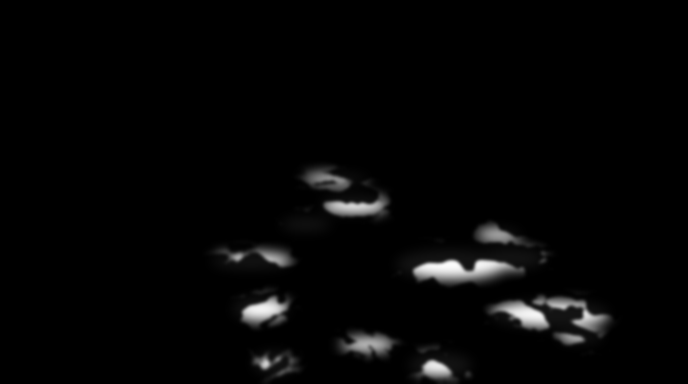
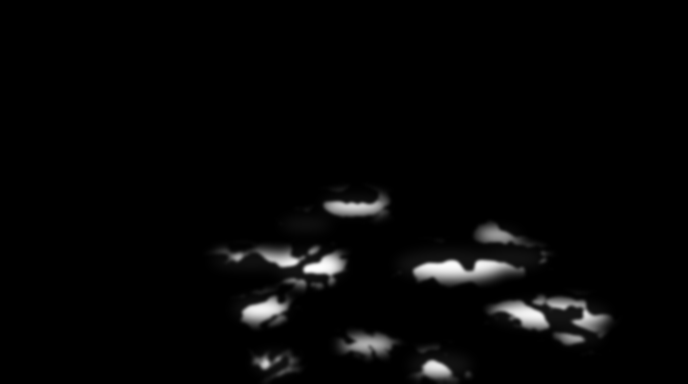
fix(menu): зони калюж за розміткою власника
Власник обвів на скріншоті дві області: мінус — прибрати краплі, плюс —
додати.

Мінус влучив рівно в зону «мокра смуга вздовж лінії окопів» (y≈0.466). Це не
вода, а пласка далека земля в димній імлі — брижі там читались як брак.
Зону прибрано.

Плюс накрив улоговину перед траншеєю, де маска не мала нічого, хоча між лівим
мокрим поділом і великою вирвою лежить суцільний гладкий розлив. Додано зону
(0.450, 0.694, 0.050, 0.042). Темний вал з дошками в центрі улоговини
лишається сухим — автооцінка «гладке й світліше за оточення» тримає його поза
маскою, і це видно на накладанні.

Заміряно по чотирьох кадрах, збрижена частка площі всередині самих обведених
контурів: мінус-зона 0.33% → 0.13% (решта — шумовий поріг: еталон знято з
іншим положенням дощових смуг), плюс-зона 1.71% → 2.41% (приріст занижений
тим, що в контур входить і сухий вал).

Changed region(s): [[0.3968, 0.625, 0.5189, 0.75], [0.4273, 0.4062, 0.5189, 0.5]]

diff --git a/tools/gen_puddle_mask.py b/tools/gen_puddle_mask.py
@@ -37,7 +37,10 @@ PUDDLES = [
     (0.655, 0.688, 0.078, 0.036),  # велика вирва по центру — головна калюжа
     (0.745, 0.673, 0.046, 0.024),  # її права лопать
     (0.515, 0.535, 0.048, 0.022),  # ставок середнього плану
-    (0.487, 0.466, 0.046, 0.011),  # мокра смуга вздовж лінії окопів
+    # Смуги вздовж лінії окопів (була ~0.487/0.466) тут НЕМАЄ навмисно: там не
+    # вода, а пласка далека земля в димній імлі, і брижі на ній читались як
+    # брак. Прибрано за розміткою власника 2026-08-17.
+    (0.450, 0.694, 0.050, 0.042),  # мокрий розлив між лівим поділом і вирвою
     (0.800, 0.818, 0.085, 0.032),  # довга калюжа правого низу
     (0.843, 0.877, 0.032, 0.014),  # мала під нею
     (0.380, 0.805, 0.040, 0.030),  # калюжа лівого низу
